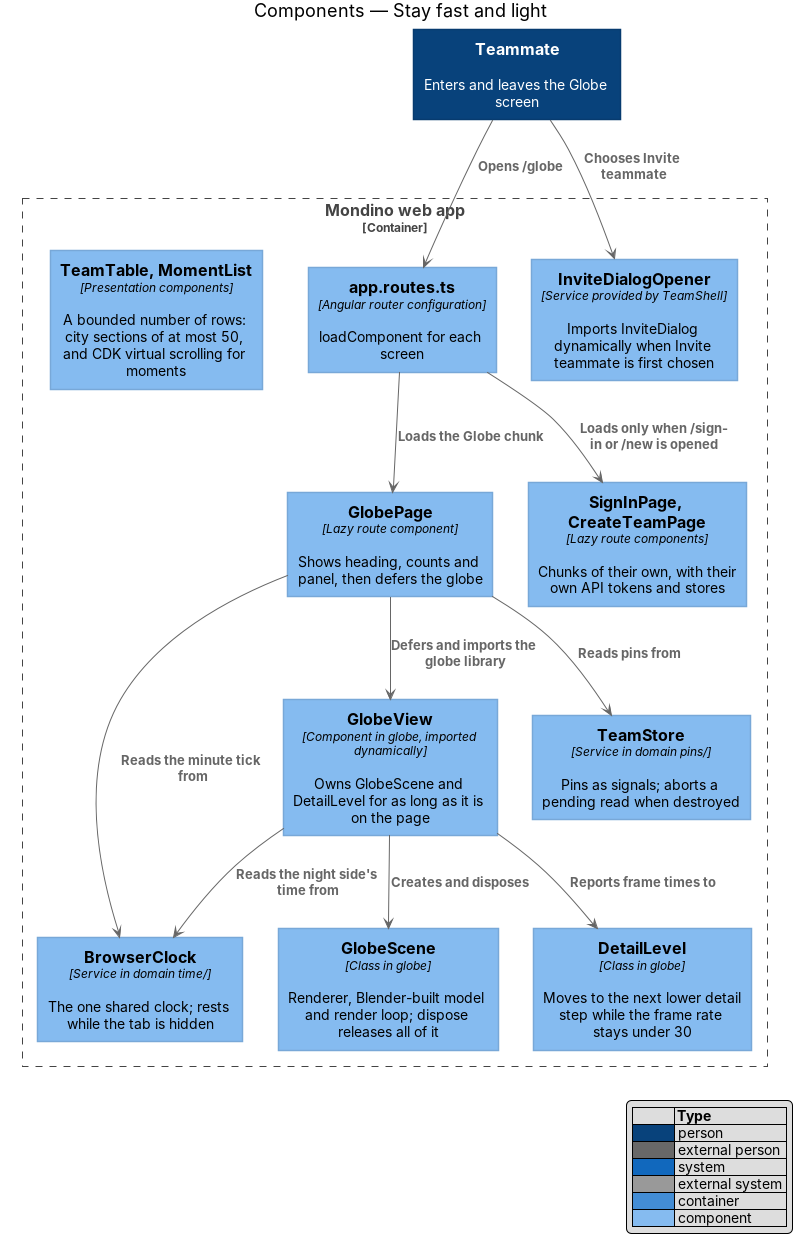
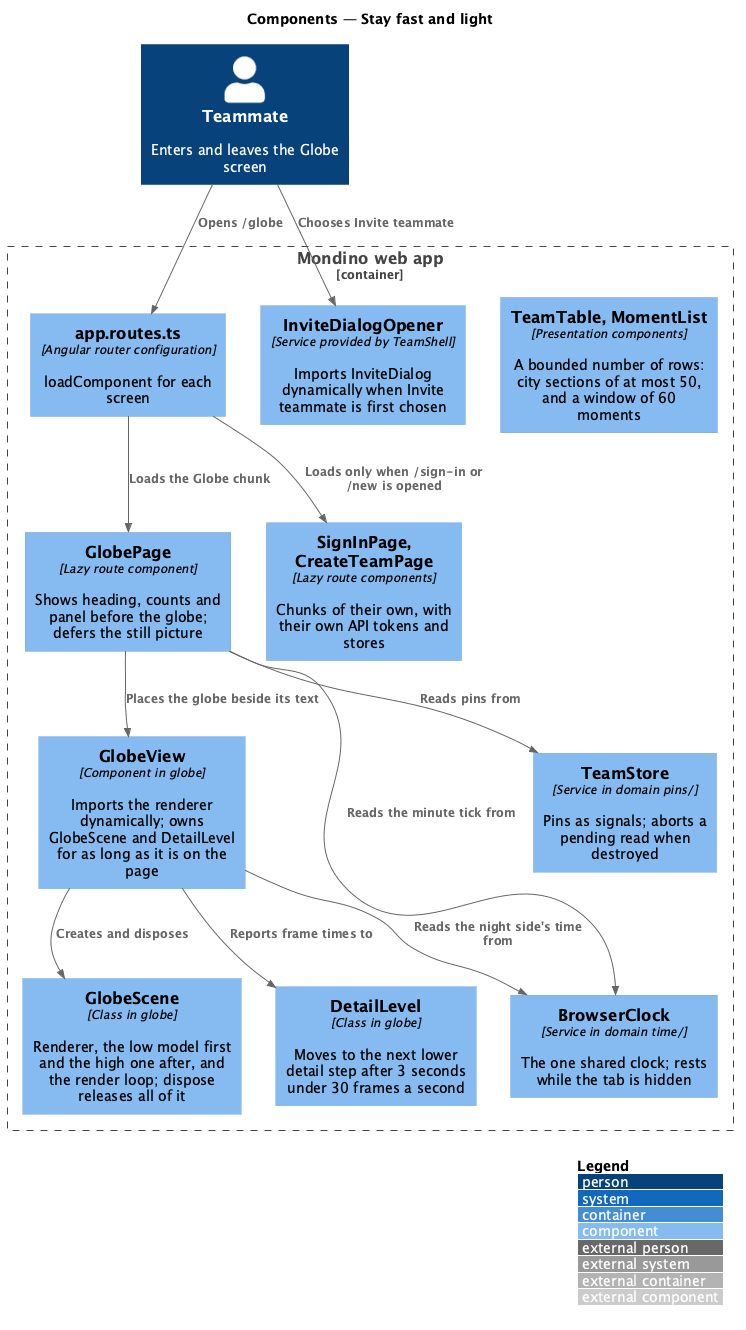
Decide how the Globe loads fast and steps its detail down

diff --git a/docs/detailed-designs/platform/stay-fast-and-light/README.md b/docs/detailed-designs/platform/stay-fast-and-light/README.md
@@ -20,9 +20,9 @@ The terms used below:
 - **windowed list** — list that keeps in the page only the rows near the visible part
 - **city section** — part of the Team list of a large team that holds one city's teammates and opens and closes
 
-The globe's renderer and the format its Blender-built assets are exported to are decided in an
-ADR before the Globe is built; both are `<TO SUPPLY>`. This design fixes what holds whichever
-renderer is chosen.
+The globe's renderer is three.js on WebGL 2, drawing a Blender-built glTF model and two mask
+textures (ADR 0012). What this feature adds to it, and how the load is proven without a stopwatch,
+is ADR 0030.
 
 ## Description
 
@@ -39,27 +39,47 @@ renderer is chosen.
   `CopyField`, is in a chunk of its own: it is in no screen's chunk and not in the initial
   bundle, although the button that opens it is in the header of every teammate screen.
   `LeaveTeamDialog` and `DiscardChangesDialog` arrive with the `/profile` route.
-- **The `globe` library is imported dynamically.** No file in the initial bundle imports
-  `@mondino/globe` statically. `GlobePage`, `JoinPage`, `SignInPage`, `CreateTeamPage` and
-  `ProfilePage` place `mo-globe` inside a `@defer` block, which imports the library, its renderer and its map data when a
-  globe is first drawn. The block's placeholder reserves the globe's box, so the layout does
-  not shift when the globe arrives.
+- **The globe's renderer is imported dynamically.** No file in the initial bundle imports
+  `@mondino/globe`. The screens that draw a globe import `GlobeView` into their own lazy chunk
+  (about 8 kB of the library's own code); `GlobeScene.create` imports the renderer, three.js with
+  the scene (160 kB compressed), only once a WebGL 2 context has been had, and then fetches the
+  assets (ADR 0012). The globe's placeholder reserves its box, so the layout does not shift when
+  the globe arrives.
+- **The globe is drawn first from a light model.** The model is two files: `globe-low.glb`
+  (`GlobeLow` and `Clouds`, 72 kB compressed), which the first frame is drawn from, and
+  `globe-high.glb` (`GlobeHigh`, 215 kB compressed), which `GlobeScene` fetches after the first
+  frame while the step asks for it and shows when it arrives (ADR 0030).
+- **The still picture is deferred on the Globe screen.** `GlobePage` places `GlobeFallback` in
+  `@defer (on immediate)`, imported through `@mondino/components/globe-fallback`, so its 116 kB of
+  drawing arrives only where the globe cannot be drawn.
 - **The screen is usable before the globe.** `GlobePage` renders its heading, counts and panel
-  from `TeamStore` without waiting for the `@defer` block.
-- **Budgets.** `angular.json` sets an error budget on the initial bundle that corresponds to
-  150 kB compressed, and `tools/verify/verify.mjs` measures the compressed size of the built
-  initial chunks. Raising a budget needs a reason in the change. Fonts are self-hosted, subset
-  and preloaded; only the weights the screens use are bundled.
-- **Assets are cached.** The globe's assets and each chunk have content-hashed file names and
-  are served with a long-lived, immutable `Cache-Control`. The hosting platform that sets the
-  header is `<TO SUPPLY>`.
-- **`DetailLevel`** — class in `globe`, owned by `GlobeView` (`draw-globe`). It holds an
-  ordered list of `DetailStep`s (`pixelRatio`, `modelDetail`) and the current one. `GlobeView`
-  passes it each frame's duration, which `GlobeScene.onFrame` reports, through
-  `record(elapsedMs)`. When the frame rate stays under 30 for a sustained interval, it moves
-  to the next lower step and `GlobeView` calls `GlobeScene.setDetail(step)`, which lowers the
-  model's detail and the drawing resolution; this repeats until the frame rate recovers. The
-  steps and the interval are `<TO SUPPLY>` with the renderer's ADR.
+  from `TeamStore` without waiting for the renderer or the model.
+- **Budgets.** The behaviour spec `globe-load` gzips the page and every script and style it
+  names, and fails above 150 kB; it also finds no renderer and no asset of the globe in them.
+  `angular.json` warns at 285 kB and fails at 290 kB raw, just above what the build measures
+  (ADR 0030). Raising a budget needs a reason in the change. Fonts are self-hosted, subset to
+  latin and latin-ext, and `font-display: swap`.
+- **The load is proven by a model of the phone's connection.** `globe-load` places each request
+  one round trip after the deepest one that had arrived before it was sent, and counts three
+  round trips to connect, one per trip and every byte at 1.6 Mbps, as an upper bound: the screen
+  is shown when the pins have arrived (2.5 s at most) and the globe drawn when its assets have
+  (5 s at most). The layout shift is read from Chromium's `layout-shift` entries (ADR 0030).
+- **Assets are cached.** The globe's assets and each chunk have content-hashed file names
+  (`name-XXXXXXXX.ext`). `Mondino API`, which serves the build on Azure App Service (ADR 0004),
+  sends each with `Cache-Control: public, max-age=31536000, immutable`, and everything else,
+  `index.html` among it, with `no-cache`.
+- **Responses are compressed.** `Mondino API` compresses with Brotli or gzip: scripts, styles,
+  the page, JSON, SVG and the model (`model/gltf-binary`).
+- **`DetailLevel`** — class in `globe`, owned by `GlobeView` (`draw-globe`). It holds the
+  ordered `DetailStep`s (`pixelRatio`, `modelDetail`) from `detailSteps` and the current one:
+  `High`, the device's pixel ratio up to 2 and `GlobeHigh`; `Low`, a pixel ratio of 1 and
+  `GlobeLow`. `GlobeView` passes it each frame's duration, which `GlobeScene.onFrame` reports,
+  through `record(elapsedMs)`, which returns the next step when the level changes. Frames that
+  follow one another are counted in windows of 3 seconds (a 0, the first frame after a rest, ends
+  a window without a verdict); a window under 30 frames a second moves to the next lower step,
+  and `GlobeView` calls `GlobeScene.setDetail(step)`, which lowers the model's detail and the
+  drawing resolution. A window at 30 or more is the frame rate recovered: the level stays, and it
+  never steps back up within a visit (ADR 0030).
 - **`GlobeFallback`** — component in `components`: the still picture shown when WebGL is
   unavailable or the `globe` library fails to load. It allocates no renderer and runs no
   animation frame. It keeps the team's pins, in place and working, drawn as HTML over the
@@ -100,8 +120,9 @@ renderer is chosen.
 **One clock, and it rests (L2-047).**
 
 - **`Clock`** / `CLOCK` — contract and token in `api`: `now(): Date` and the signal `minute`.
-- **`BrowserClock`** — the one implementation, in `domain`'s `time/`, bound in
-  `app.config.ts`. It holds one timer, aligned to the start of the next minute, and sets
+- **`BrowserClock`** — the one implementation, in `domain`'s `time/`, bound by `TeamShell` for
+  Globe, Team, Moments and Profile & Settings (ADR 0025), and by Join and Create Team for their
+  own screens. It holds one timer, aligned to the start of the next minute, and sets
   `minute` when it fires. Every local time, status, offset and overlap is a `computed` over
   `minute` and a pin's time zone; no pin and no component has a timer of its own.
 - On `visibilitychange` to hidden, `BrowserClock` clears its timer. On return it sets `minute`
@@ -117,9 +138,8 @@ renderer is chosen.
   section holds no rows, and an open one holds at most `CityRowLimit` (50)
   (`view-team-through-the-day`, L2-056). The day ribbon of such a team is 48 bars, whatever
   the team's size.
-- **`MomentList`** renders its rows through CDK virtual scrolling (`cdkVirtualFor`), so the
-  number of rows in the page stays under a fixed limit. The limit follows from the viewport's
-  height and the buffer; the buffer size is `<TO SUPPLY>`.
+- **The Moments list** keeps a window of 60 rows in the page past 60 moments, moved by the page
+  as it is scrolled (`momentWindow`, ADR 0021), so the rows in the page stay under a fixed limit.
 - **The Globe's panel** lists at most six moments and six teammates in working hours
   (`view-week-around-the-world`).
 - `TeamStore` replaces its pins on each refresh; it keeps no history. A team has at most 500
@@ -128,10 +148,17 @@ renderer is chosen.
   drawn at once are bounded by the globe's size, not the team's: a team of 500 is drawn as
   group pins with counts.
 
-**Prove it.** A heap check enters and leaves the Globe screen 20 times and compares the heap
-after garbage collection with its size after the first visit; a second check runs the Globe
-screen for 8 simulated hours on a fake clock. Each allows growth of 5%. Like the visual and
-accessibility sweeps, the heap checks run only when a person asks.
+**Prove it.** The behaviour specs prove what is counted: the bytes and round trips of a first
+visit, the layout shift, the initial bundle, the step down by the frame times the browser
+reports, one clock however many pins, nothing drawn while hidden, the requests cancelled, the
+WebGL contexts, listeners and observers released. The `performance` sweep (`npm run
+e2e:performance`) holds what only a measurement of the running app can show: a heap check
+enters and leaves the Globe screen, a team of 500, Team and Moments 20 times and compares the
+heap after garbage collection with its size after the first visit; a second runs the Globe
+screen for 8 simulated hours on a fake clock; each allows growth of 5%. It also measures the
+frame rate while a team of 100 is dragged, the response to an interaction and the largest
+contentful paint on a throttled connection. Like the visual and accessibility sweeps, it runs
+only when a person asks.
 
 ## Requirements
 
@@ -162,25 +189,26 @@ percentile, compressed.
 
 ### Components
 
-`app.routes.ts` loads the Globe chunk. `GlobePage` shows its text first, then defers
-`GlobeView`, which creates and disposes `GlobeScene` and reports its frame times to
-`DetailLevel`. `GlobePage` and `GlobeView` read the one `BrowserClock`.
+`app.routes.ts` loads the Globe chunk. `GlobePage` shows its text first, beside `GlobeView`,
+which imports the renderer dynamically, creates and disposes `GlobeScene` and reports its frame
+times to `DetailLevel`. `GlobePage` and `GlobeView` read the one `BrowserClock`.
 
 ![C4 component view for staying fast and light](diagrams/c4-component.png)
 
 ### Class structure
 
 `BrowserClock` implements `Clock`. `GlobeView` composes `GlobeScene` and
-`DetailLevel`; `GlobeView` shows the `GlobeFallback` that `GlobePage` gives it when WebGL is unavailable. `GlobePage` depends
-on `TeamStore`, `Clock` and, through a dynamic import, `GlobeView`. `TeamTable` and
-`MomentList` hold a bounded number of rows.
+`DetailLevel`; `GlobePage` defers the `GlobeFallback` it shows when WebGL is unavailable.
+`GlobePage` depends on `TeamStore`, `Clock` and `GlobeView`, which imports the renderer
+dynamically. `TeamTable` and `MomentList` hold a bounded number of rows.
 
 ![Class diagram for staying fast and light](diagrams/class-structure.png)
 
 ### Behaviour — enter and leave the Globe screen
 
 On entry, the router loads the Globe chunk, `GlobePage` shows its heading, counts and panel,
-and the `@defer` block imports `@mondino/globe` and starts `GlobeScene` (L2-046). While the
+and `GlobeView` imports the renderer, draws from the low model and fetches the high one after
+its first frame (L2-046). While the
 screen is open, `DetailLevel` steps down when the frame rate stays under 30, one clock ticks
 every local time, and both the clock and the render loop rest while the tab is hidden. On
 leaving, a pending request of the page's own is cancelled, `GlobeView` removes its listeners and observer, and

diff --git a/docs/adr/0030-fast-to-load-and-light-all-day.md b/docs/adr/0030-fast-to-load-and-light-all-day.md
@@ -1,0 +1,106 @@
+# 0030: The globe is drawn first from a light model, the API compresses and caches, detail steps down after 3 seconds under 30 frames a second, and a model of the phone's connection proves the load
+
+**Status:** Accepted (journey 29, Stay fast and light). Tightens the budget of
+[ADR 0018](0018-initial-bundle-budget.md); splits the model of [ADR 0012](0012-drawing-the-globe.md)
+in two and builds its `DetailLevel`.
+
+## Context
+
+L2-046 asks that the Globe screen be shown within 2.5 seconds and its 3D globe spun within 5 on a
+mid-range phone on 4G (1.6 Mbps, 150 ms), with the heading, the counts and the panel usable before
+the globe; that the initial bundle stay under 150 kB compressed without the renderer or its
+assets; that the globe's assets be cached by content-hashed addresses; that the team of 500 be
+read within 300 ms at the 95th percentile, compressed; and that a device whose frame rate stays
+under 30 step its detail down. `stay-fast-and-light` left the detail steps and the interval, the
+hosting that sets the cache header, and the Moments buffer `<TO SUPPLY>`.
+
+Measured on journey 28's build, opening the Globe fetched 37 requests:
+
+| What | Compressed (gzip) |
+|---|---|
+| The page, `main` and the styles | 88 kB |
+| The teammate shell, the Globe's chunk and the chunks they import | 50 kB |
+| The still picture (`GlobeFallback`), imported by the Globe's chunk though only a globe that cannot be drawn shows it | 44 kB |
+| Inter and Gabarito (latin) | 82 kB |
+| The renderer (three.js and the scene) | 160 kB |
+| `globe.glb`: `GlobeHigh`, `GlobeLow` and `Clouds` together | 317 kB |
+| `surface.png` and `clouds.png` | 195 kB |
+
+Nothing was compressed in production: `Mondino.Api` serves the build from `wwwroot` with
+`UseStaticFiles` and no compression, and sets no `Cache-Control` on the hashed files.
+
+A browser test cannot time a phone on 4G: Chromium's throttling runs on the wall clock, the specs
+run on a fake one, and CI's machines vary. The time can be worked out from what is fetched.
+
+## Decision
+
+- **A model of the phone's connection proves the load (L2-046 criteria 1 and 2).** The spec
+  `globe-load` records every request of a first visit. Each request is placed one round trip
+  after the deepest request that had arrived before it was sent (the page first, and what its
+  first bytes name one trip after it). The time to a request is three round trips to open the
+  connection, one per trip, and every byte of the earlier trips at 1.6 Mbps, as if no byte and
+  no round trip overlapped; on the last trip, each request sent alongside the awaited ones takes
+  at most as many bytes as the largest of them. Text (scripts, styles, the page, JSON, SVG and the
+  model) is counted gzipped, as the API sends it; images and fonts as they are. The screen is
+  shown when the team's pins have arrived and the globe drawn when its assets have; what either
+  brings in after it (a font swapped in, the high model) is not waited for, since the fonts are
+  `font-display: swap` and a font swapped in does not move the largest contentful paint. With
+  this change the Globe is shown at 2.28 s and its globe drawn at 4.79 s (2.49 s and 5.45 s
+  before it). The layout shift is read from Chromium's `layout-shift` entries, added up. The real
+  phone's processor is not modelled; the performance sweep measures the largest contentful paint
+  on a throttled connection when a person asks.
+- **The globe is drawn first from a light model.** `build_globe.py` exports two files:
+  `globe-low.glb` (`GlobeLow` and `Clouds`, 153 kB, 72 kB gzipped) and `globe-high.glb`
+  (`GlobeHigh`, 369 kB, 215 kB gzipped). `ThreeGlobeScene` draws its first frame from the low
+  file, fetches the high one after that frame while the step asks for it, shows it when it arrives
+  and gives the fetch up when the step goes down or the scene is disposed. A high model that fails
+  to arrive leaves the low one; the look is the same (L2-008 criterion 4).
+- **The still picture is deferred on the Globe screen.** It is 116 kB of drawing that only a
+  globe that cannot be drawn shows. The Globe screen places it in `@defer (on immediate)` and
+  imports it through a second entry of the library, `@mondino/components/globe-fallback`, in an
+  import of its own, so that Angular can make it a dynamic import: a deferred dependency that
+  shares its import with eager ones, or comes through the library's own entry, is loaded with
+  the page. `@defer` adds 6.75 kB raw (1.9 kB compressed) to the initial bundle, one of the
+  features ADR 0018 paid for.
+- **The initial bundle is measured compressed, and its raw budget is tightened.** The spec
+  gzips the page and every script and style it names: 88 kB against the requirement's 150. The
+  build's raw budget follows what it measures, 281.16 kB: a warning at 285 kB and an error at
+  290 kB (they were 290 and 300). One journey remains, and it is the backend's.
+- **The API compresses and caches.** `UseResponseCompression`, before everything else that
+  writes a body, compresses with Brotli or gzip (`CompressionLevel.Optimal`), over HTTPS too, the
+  default text types with `text/javascript`, `image/svg+xml`, `model/gltf-binary` and
+  `application/problem+json`. A file whose name ends in a dash and an eight-character hash (the
+  build's `main-GZTTDSGM.js`, `chunk-BD9bS9K-.js`, `media/globe-low-X5QDMBZT.glb`) is served with
+  `Cache-Control: public, max-age=31536000, immutable`; every other file with `no-cache`, as
+  `index.html` already is. Compression over HTTPS is safe here from BREACH: no response puts a
+  secret beside text a stranger chooses and can have the browser ask for again and again; the
+  pins, which carry the invite link beside teammates' names, are read once in 15 minutes by a
+  teammate's own browser.
+- **Detail steps down after 3 seconds under 30 frames a second (L2-046 criterion 6).**
+  `DetailLevel`, in `globe`, takes each frame's time from `GlobeScene.onFrame`. Frames that
+  follow one another are counted in windows of 3 seconds; a 0, the first frame after a rest, ends
+  the window without a verdict. A window whose frame rate is under 30 moves to the next lower
+  step (`detailSteps`: `High`, the device's pixel ratio up to 2 and `GlobeHigh`; `Low`, a pixel
+  ratio of 1 and `GlobeLow`), and `GlobeView` calls `GlobeScene.setDetail`. A window at 30 or
+  more is the frame rate recovered, and the level stays. It never steps back up within a visit:
+  a device that could not hold 30 frames would step up and down again.
+- **The Moments list's buffer** is ADR 0021's window of 60 rows, not CDK virtual scrolling.
+- **The heap and the frame rate are sweeps.** A `performance` project in
+  `playwright.sweeps.config.ts` (`npm run e2e:performance`) holds the heap checks (the Globe for
+  8 simulated hours; 20 enters and leaves of the Globe, a team of 500, Team and Moments, each
+  within 5% after garbage collection), the frame rate while a team of 100 is dragged, the
+  response to an interaction and the largest contentful paint on a throttled connection. Like the
+  other sweeps, it runs only when a person asks.
+
+## Consequences
+
+- The renderer, the low model and the masks reach a phone on 4G within the 5 seconds; the high
+  model follows only while the device keeps the finer step, and a slow device never downloads it
+  once it has stepped down.
+- Adding 40 kB to what the Globe's first visit needs breaks the model's 5 seconds, and 45 kB
+  to what its screen needs breaks the 2.5: `globe-load` is the budget for both.
+- `globe.glb` is gone; specs that looked for it look for `globe-low` and `globe-high`.
+- A second entry of a library is the way to defer one of its components from a screen that uses
+  others; it is a path in `tsconfig.json` and a file beside `public-api.ts`.
+- Whatever serves the app must compress and cache as `Mondino.Api` does; Azure App Service runs
+  `Mondino.Api` itself (ADR 0004), so no setting of the host is involved.

diff --git a/docs/adr/README.md b/docs/adr/README.md
@@ -19,13 +19,13 @@ Playwright, WCAG) needs a record here that gives its reason.
 | [0009](0009-making-a-team.md) | Making a team keeps only a keyed fingerprint of the email, and reuses Join's lookup | Accepted |
 | [0010](0010-protecting-team-data.md) | Every endpoint needs a session unless marked open, and the app is served under a nonce-based CSP | Accepted |
 | [0011](0011-signing-in-with-an-emailed-link.md) | Sign-in links are mailed by Postmark from an outbox, and the link keeps its token in the fragment | Accepted |
-| [0012](0012-drawing-the-globe.md) | The globe is drawn by three.js from a Blender-built glTF model and mask textures | Accepted |
+| [0012](0012-drawing-the-globe.md) | The globe is drawn by three.js from a Blender-built glTF model and mask textures | Accepted; model split in two by 0030 |
 | [0013](0013-turning-the-globe.md) | The globe turns from one frame loop, at numbers of its own, and only the Globe screen's globe turns on its own | Accepted |
 | [0014](0014-drawing-the-pins.md) | The page places the pins over the globe, and the numbers that group, fade and label them | Accepted |
 | [0015](0015-weather-source.md) | The weather comes from Open-Meteo, asked once per city and kept 15 minutes | Accepted |
 | [0016](0016-no-limit-on-making-a-team.md) | Making a team has no rate limit, the one open request without one | Accepted; supersedes part of 0009 |
 | [0017](0017-azure-postgresql.md) | The deployed database is an Azure PostgreSQL Flexible Server, reached without a password and migrated by the deployment | Accepted |
-| [0018](0018-initial-bundle-budget.md) | The initial budget (290 kB warning, 300 kB error) pays for Angular's runtime, which lazy screens put in the main chunk | Accepted; supersedes the budgets of 0005 and 0007 |
+| [0018](0018-initial-bundle-budget.md) | The initial budget (290 kB warning, 300 kB error) pays for Angular's runtime, which lazy screens put in the main chunk | Accepted; supersedes the budgets of 0005 and 0007; budget tightened by 0030 |
 | [0019](0019-moment-calendars.md) | Holidays come from OpenHolidays and Mondino's own calendar; races, events and sport from Mondino's own calendar | Accepted |
 | [0020](0020-chosen-kinds-in-the-browser.md) | The viewer's chosen kinds of moment are read through `SETTINGS_STORE`, kept in the browser until Profile & Settings saves them | Accepted |
 | [0021](0021-a-window-of-moments.md) | A long Moments list keeps a window of 60 rows in the page, moved by the page itself rather than by CDK virtual scrolling | Accepted |
@@ -37,5 +37,6 @@ Playwright, WCAG) needs a record here that gives its reason.
 | [0027](0027-breakpoints-where-the-mocks-break.md) | The layouts change where the mocks do, at breakpoints one Sass module names, and the Globe's globe fills its stage | Accepted |
 | [0028](0028-an-ended-session-on-profile.md) | A store that is refused with 401 forgets the team, and its screen says an invite link is needed; there is no interceptor | Accepted; replaces the design's `sessionExpiredInterceptor` |
 | [0029](0029-accessibility-as-the-mocks-draw-it.md) | The Globe announces a selection in its own live region, motion is read where it moves, and the specs measure what a sweep would | Accepted; replaces the design's `LiveAnnouncer` and `MotionPreference` |
+| [0030](0030-fast-to-load-and-light-all-day.md) | The globe is drawn first from a light model, the API compresses and caches, detail steps down after 3 seconds under 30 frames a second, and a model of the phone's connection proves the load | Accepted; tightens 0018's budget; splits 0012's model |
 
 Not decided yet: nothing a journey has reached.

diff --git a/docs/detailed-designs/globe/draw-globe/README.md b/docs/detailed-designs/globe/draw-globe/README.md
@@ -109,9 +109,10 @@ any other origin.
   `GlobeUnavailableError` whose `reason` is `NoWebGL`, `AssetsFailed` or `ContextLost`. Its
   other methods are `resize`, `setSun`, `setDetail`, `setOrientation`, `project`, `onFrame`,
   `start`, `stop`, `setPalette` and `dispose`. Renderer: three.js on WebGL 2, imported only
-  once a WebGL 2 context has been obtained. Asset format: `globe.glb` (glTF binary from
-  Blender: `GlobeHigh`, `GlobeLow` and the `Clouds` shell), `surface.png` (land, forest, sand
-  and ice masks) and `clouds.png` (ADR 0012). It draws on demand: a frame only when something
+  once a WebGL 2 context has been obtained. Asset format: glTF binary from Blender in
+  two files, `globe-low.glb` (`GlobeLow` and the `Clouds` shell), which the first frame is drawn
+  from, and `globe-high.glb` (`GlobeHigh`), fetched after it while the step asks for it;
+  `surface.png` (land, forest, sand and ice masks) and `clouds.png` (ADR 0012, ADR 0030). It draws on demand: a frame only when something
   has changed, and none while stopped.
 - **`GlobePalette`** — the globe's colours as the scene needs them: ocean, deep ocean, land,
   deep land, sand, ice, cloud and night. The outline and the drop shadow are SVG circles over

diff --git a/docs/detailed-designs/README.md b/docs/detailed-designs/README.md
@@ -213,8 +213,8 @@ Every L2 requirement, L2-001 to L2-057, is realised by exactly one feature.
   every toast on the four screens, the just-joined greeting among them, is shown through it. A `MomentMarker` holds its
   `moments`, an `emblem`, a `count` and `today`.
 - `GlobeScene.setPalette` takes a `GlobePalette` read from the `--color-globe-*` tokens; the
-  globe is drawn by three.js from `globe.glb` and two mask textures built in Blender
-  (ADR 0012), and its outline and shadow are SVG circles around the canvas. `CLOCK`'s
+  globe is drawn by three.js from `globe-low.glb` first, then `globe-high.glb`, and two mask
+  textures built in Blender (ADR 0012, ADR 0030), and its outline and shadow are SVG circles around the canvas. `CLOCK`'s
   `minute` signal ticks once a minute (`BrowserClock`, bound by `TeamShell` for its four screens and
   by Join and Create Team each, ADR 0025), and
   `TeamStore.refreshing` is true while a refresh is pending.

diff --git a/docs/adr/0012-drawing-the-globe.md b/docs/adr/0012-drawing-the-globe.md
@@ -1,6 +1,8 @@
 # 0012: The globe is drawn by three.js from a Blender-built glTF model and mask textures
 
-**Status:** Accepted (journey 8, Draw the globe). Builds on
+**Status:** Accepted (journey 8, Draw the globe). The model is two files since
+[ADR 0030](0030-fast-to-load-and-light-all-day.md), drawn first from the low one, and its
+`DetailLevel` is built there. Builds on
 [ADR 0001](0001-frontend-workspace.md) and [ADR 0010](0010-protecting-team-data.md).
 
 ## Context

diff --git a/docs/adr/0018-initial-bundle-budget.md b/docs/adr/0018-initial-bundle-budget.md
@@ -2,7 +2,8 @@
 
 **Status:** Accepted (bundle headroom pass, after journey 15). Supersedes the budgets of
 [0005](0005-fetch-for-the-backend.md) and [0007](0007-join-form-runtime-in-the-initial-bundle.md),
-and 0007's rule that components avoid signal queries.
+and 0007's rule that components avoid signal queries. Its budget is tightened to 285 kB and
+290 kB by [ADR 0030](0030-fast-to-load-and-light-all-day.md).
 
 ## Context
 
